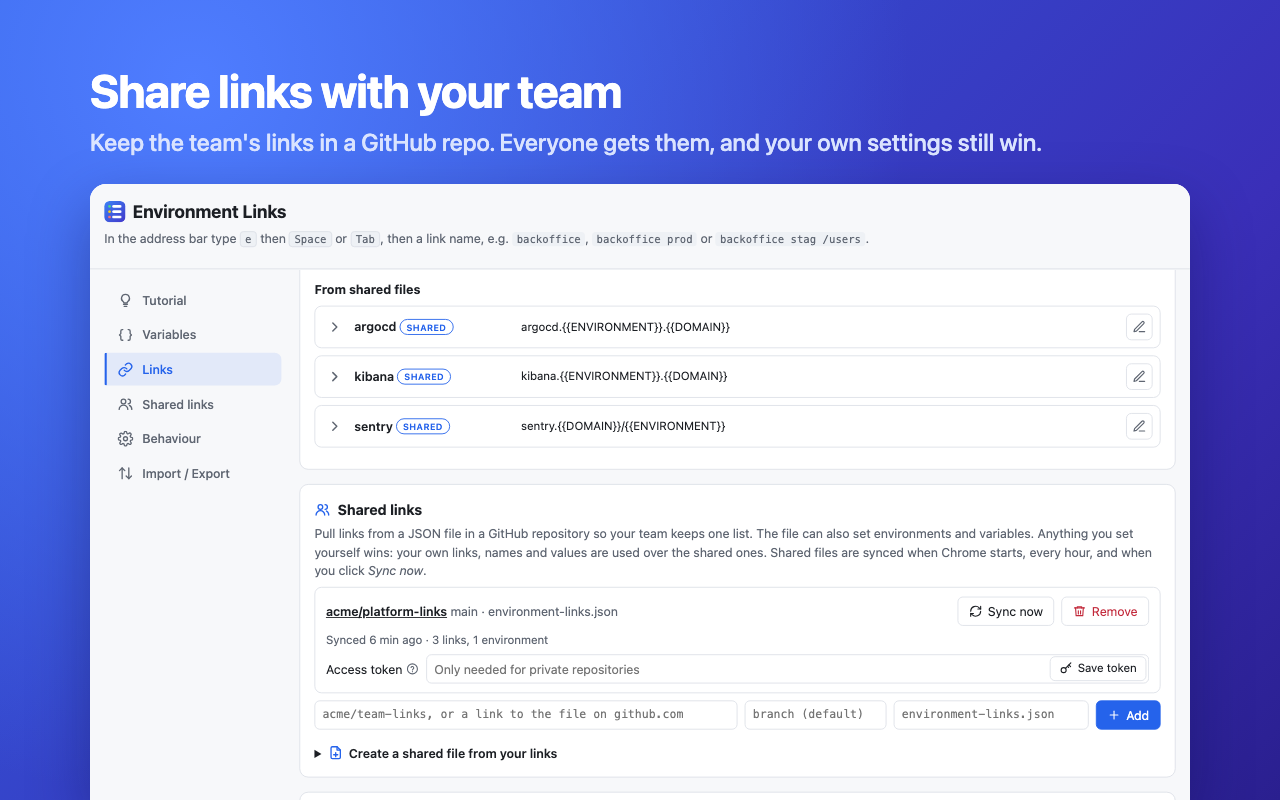
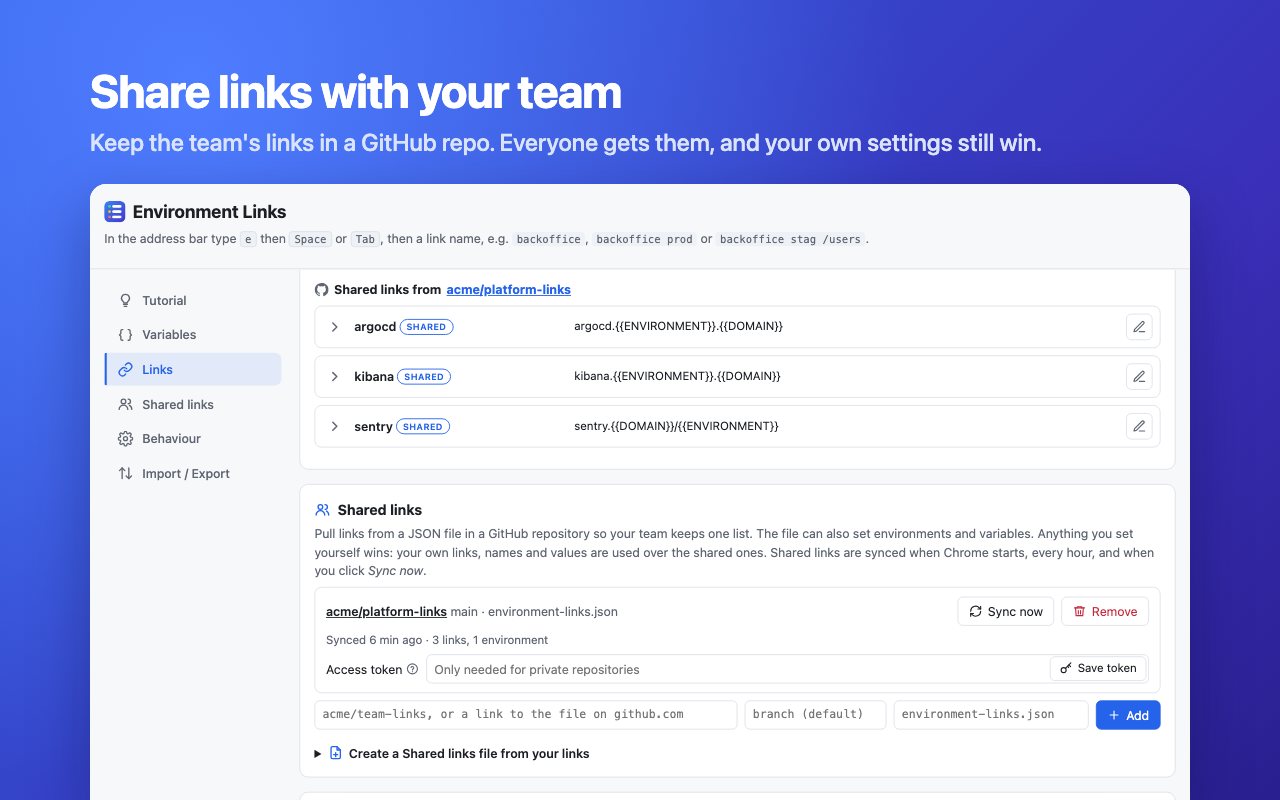
Release 1.3.1
- Shared links are grouped under a "Shared links from owner/repo" heading
  for each source, linking to the file on GitHub.
- "Shared links" wording throughout instead of "shared files".
- Links section explains how to use variables in templates; wider name
  column with a "Link Name (e.g. BackOffice)" placeholder.
- Spacing tweaks for link details and the shortcuts box.

diff --git a/src/options.js b/src/options.js
@@ -152,10 +152,10 @@ function renderVars() {
               grip("var", name, `variable ${name}`, "x"),
               el("input", {
                 class: "mono", value: name, "aria-label": "Variable name", readOnly: shared,
-                title: shared ? "Defined in a shared file, so it can't be renamed here" : "",
+                title: shared ? "Defined in Shared links, so it can't be renamed here" : "",
                 onchange: (e) => renameVariable(name, e.target.value),
               }),
-              shared ? sharedTag("a shared file") : null,
+              shared ? sharedTag("Shared links") : null,
               iconButton(
                 shared ? `Clear your values for ${name}` : `Remove ${name}`, "✕",
                 () => {
@@ -211,7 +211,7 @@ function renderVars() {
               value: own?.name ?? env.name, "aria-label": "Environment name",
               oninput: (e) => { ownEnvironment(env, true).name = e.target.value; changed(); },
             }),
-            shared ? sharedTag(env.source || "a shared file") : null
+            shared ? sharedTag(env.source || "Shared links") : null
           )
         ),
         ...effective.variableNames.map((name) =>
@@ -504,7 +504,7 @@ function renderLinks() {
         el("div", { class: "link-row" },
           toggleButton(link),
           el("input", {
-            value: link.key, placeholder: "name, e.g. backoffice", "aria-label": "Link name",
+            value: link.key, placeholder: "Link Name (e.g. BackOffice)", "aria-label": "Link name",
             oninput: (e) => { link.key = e.target.value.trim(); changed(); },
           }),
           el("input", {
@@ -562,13 +562,30 @@ $("#links").addEventListener("focusin", (e) => {
   if (box && e.target.closest(".link-row input") && openLink !== box.linkKey) openOnly(box.linkKey);
 });
 
+const GITHUB_MARK = `<svg viewBox="0 0 24 24" width="16" height="16" aria-hidden="true" fill="currentColor"><path d="M12 .5a11.5 11.5 0 0 0-3.64 22.41c.58.1.79-.25.79-.56v-2c-3.2.7-3.88-1.37-3.88-1.37-.53-1.33-1.28-1.69-1.28-1.69-1.05-.71.08-.7.08-.7 1.16.08 1.77 1.19 1.77 1.19 1.03 1.77 2.7 1.26 3.36.96.1-.75.4-1.26.73-1.55-2.56-.29-5.25-1.28-5.25-5.68 0-1.26.45-2.28 1.19-3.09-.12-.29-.52-1.46.11-3.04 0 0 .97-.31 3.17 1.18a11 11 0 0 1 5.77 0c2.2-1.49 3.17-1.18 3.17-1.18.63 1.58.23 2.75.11 3.04.74.81 1.19 1.83 1.19 3.09 0 4.41-2.7 5.38-5.26 5.67.41.36.78 1.06.78 2.14v3.17c0 .31.21.67.8.56A11.5 11.5 0 0 0 12 .5z"/></svg>`;
+
+/** "Shared links from owner/repo", with the repository linking to the file on GitHub. */
+function sourceHeading(source, repo) {
+  const mark = el("span", { class: "source-mark", "aria-hidden": "true" });
+  mark.innerHTML = GITHUB_MARK;
+  const name = source
+    ? el("a", { href: fileUrl(source), target: "_blank", rel: "noopener", title: `${source.path} on ${source.branch || "the default branch"}` }, repo)
+    : el("span", {}, repo);
+  return el("h3", { class: "source-heading" }, mark, "Shared links from ", name);
+}
+
 function renderSharedLinks() {
   const root = $("#shared-links");
   root.replaceChildren();
   if (!effective.sharedLinks.length) return;
-  root.append(el("h3", {}, "From shared files"));
 
+  // Shared links come out in source order; each source gets a heading naming the repository.
+  let lastSource = null;
   effective.sharedLinks.forEach((link, i) => {
+    if (link.source !== lastSource) {
+      lastSource = link.source;
+      root.append(sourceHeading(config.sources.find((src) => src.repo === link.source), link.source));
+    }
     const key = `shared:${link.source}:${link.key}`;
 
     root.append(
@@ -760,7 +777,7 @@ function renderSources() {
   const root = $("#sources");
   root.replaceChildren();
   if (!config.sources.length) {
-    root.append(el("p", { class: "empty" }, "No shared files yet."));
+    root.append(el("p", { class: "empty" }, "No Shared links added yet."));
     return;
   }
   config.sources.forEach((source, i) => {
@@ -818,7 +835,7 @@ $("#add-source").addEventListener("submit", async (e) => {
     return;
   }
   if (!(await granted)) {
-    setStatus("Allow access to api.github.com to sync shared files.", "err");
+    setStatus("Allow access to api.github.com to sync Shared links.", "err");
     return;
   }
   config.sources.push(source);
@@ -1195,7 +1212,7 @@ window.addEventListener("dragover", (e) => { if (hasFiles(e)) e.preventDefault()
 window.addEventListener("drop", (e) => { if (hasFiles(e)) e.preventDefault(); });
 
 $("#reset").addEventListener("click", () => {
-  if (!confirm("Remove your own environments, variables and links? Shared files are kept.")) return;
+  if (!confirm("Remove your own environments, variables and links? Shared links are kept.")) return;
   config = normalizeConfig({ ...structuredClone(DEFAULT_CONFIG), sources: config.sources });
   openLink = null;
   restructured();

diff --git a/src/options.html b/src/options.html
@@ -158,8 +158,12 @@
       <div class="section-head">
         <div>
           <h2><svg class="h-icon" viewBox="0 0 24 24" width="18" height="18" aria-hidden="true" fill="none" stroke="currentColor" stroke-width="2" stroke-linecap="round" stroke-linejoin="round"><path d="M10 13a5 5 0 0 0 7.5.5l3-3a5 5 0 0 0-7-7l-1.7 1.7"/><path d="M14 11a5 5 0 0 0-7.5-.5l-3 3a5 5 0 0 0 7 7l1.7-1.7"/></svg>Links</h2>
-          <p class="muted">The name is what you type after <kbd class="keyword">e</kbd>. Expand a link to preview it, or to override the URL for one environment
-            (e.g. production without the <code>{{ENVIRONMENT}}.</code> part).</p>
+          <p class="muted">In the URL template, put a variable's name in double braces, like <code>{{ENVIRONMENT}}</code> or
+            <code>{{DOMAIN}}</code>. Each environment fills in its own value from <a href="#vars-section">Variables</a>, so
+            <code>backoffice.{{ENVIRONMENT}}.{{DOMAIN}}</code> becomes <code>backoffice.dev.example.com</code> for DEV.
+            <code>https://</code> is added if you leave it out.</p>
+          <p class="muted">While you edit a link, its URL for every environment is shown below it. Type in an environment's box to use
+            a different URL there, e.g. production without the <code>{{ENVIRONMENT}}.</code> part.</p>
         </div>
         <div class="actions"><button id="add-link" type="button">+ Link</button></div>
       </div>
@@ -171,7 +175,7 @@
       <h2><svg class="h-icon" viewBox="0 0 24 24" width="18" height="18" aria-hidden="true" fill="none" stroke="currentColor" stroke-width="2" stroke-linecap="round" stroke-linejoin="round"><circle cx="9" cy="8" r="3.5"/><path d="M2.5 20a6.5 6.5 0 0 1 13 0"/><path d="M16 4.5a3.5 3.5 0 0 1 0 7"/><path d="M18 14a6.5 6.5 0 0 1 3.5 6"/></svg>Shared links</h2>
       <p class="muted">Pull links from a JSON file in a GitHub repository so your team keeps one list. The file can also set
         environments and variables. Anything you set yourself wins: your own links, names and values are used over the shared ones.
-        Shared files are synced when Chrome starts, every hour, and when you click <em>Sync now</em>.</p>
+        Shared links are synced when Chrome starts, every hour, and when you click <em>Sync now</em>.</p>
       <div id="sources"></div>
       <form id="add-source" class="add-source">
         <input id="source-location" class="mono" required
@@ -182,13 +186,13 @@
       </form>
 
       <details class="share-builder">
-        <summary><svg class="h-icon" viewBox="0 0 24 24" width="18" height="18" aria-hidden="true" fill="none" stroke="currentColor" stroke-width="2" stroke-linecap="round" stroke-linejoin="round"><path d="M14 3H7a2 2 0 0 0-2 2v14a2 2 0 0 0 2 2h10a2 2 0 0 0 2-2V8z"/><path d="M14 3v5h5"/><path d="M12 12v6"/><path d="M9 15h6"/></svg>Create a shared file from your links</summary>
+        <summary><svg class="h-icon" viewBox="0 0 24 24" width="18" height="18" aria-hidden="true" fill="none" stroke="currentColor" stroke-width="2" stroke-linecap="round" stroke-linejoin="round"><path d="M14 3H7a2 2 0 0 0-2 2v14a2 2 0 0 0 2 2h10a2 2 0 0 0 2-2V8z"/><path d="M14 3v5h5"/><path d="M12 12v6"/><path d="M9 15h6"/></svg>Create a Shared links file from your links</summary>
         <p class="muted">Pick the links to share, then commit the JSON below as <code>environment-links.json</code> in a GitHub
           repository your team can read. Anyone who adds that repository above gets these links.</p>
         <div id="share-links" class="share-links"></div>
         <label class="inline"><input id="share-values" type="checkbox" checked>
           Include the environments and variable values these links use</label>
-        <textarea id="share-json" rows="10" readonly spellcheck="false" aria-label="Shared file JSON"></textarea>
+        <textarea id="share-json" rows="10" readonly spellcheck="false" aria-label="Shared links JSON"></textarea>
         <div class="actions"><button id="share-copy" type="button">Copy</button></div>
       </details>
     </section>

diff --git a/src/options.css b/src/options.css
@@ -135,7 +135,7 @@ table.grid { border-collapse: collapse; width: 100%; }
 .grid .row-actions { width: 1%; white-space: nowrap; }
 
 .link { border: 1px solid var(--border); border-radius: 8px; margin-bottom: 8px; }
-.link-row { display: grid; grid-template-columns: 28px minmax(100px, 180px) 1fr auto; gap: 8px; align-items: center; padding: 8px; }
+.link-row { display: grid; grid-template-columns: 28px minmax(140px, 240px) 1fr auto; gap: 8px; align-items: center; padding: 8px; }
 .link-row .toggle {
   display: grid; place-items: center; width: 28px; height: 28px; padding: 0;
   border: 0; border-radius: 6px; background: none; color: var(--muted);
@@ -429,7 +429,7 @@ button:has(> .btn-icon) { display: inline-flex; align-items: center; gap: 6px; }
 /* Behaviour: each shortcut on a row, with its name, its keys and an action lined up in columns */
 .shortcuts {
   display: grid; grid-template-columns: max-content max-content 1fr; align-items: center;
-  gap: 10px 16px; margin: 4px 0 14px; padding: 12px 14px; border: 1px solid var(--border); border-radius: 10px;
+  gap: 10px 16px; margin: 10px 0 14px; padding: 12px 14px; border: 1px solid var(--border); border-radius: 10px;
 }
 .shortcut { display: contents; }
 .shortcut-name { font-weight: 600; }
@@ -446,3 +446,9 @@ button:has(> .btn-icon) { display: inline-flex; align-items: center; gap: 6px; }
 .token-label { display: inline-flex; align-items: center; gap: 4px; }
 .help-link { display: inline-grid; place-items: center; color: var(--muted); border-radius: 50%; }
 .help-link:hover, .help-link:focus-visible { color: var(--accent); }
+.section-head p a { color: var(--accent); }
+
+/* "Shared links from owner/repo" above each source's links */
+.source-heading { display: flex; align-items: center; gap: 6px; flex-wrap: wrap; }
+.source-heading .source-mark { display: grid; color: var(--muted); }
+.source-heading a { color: var(--accent); }

diff --git a/README.md b/README.md
@@ -24,7 +24,7 @@ e backoffice
 - **One template per link:** variables per environment, a Default row for shared values, and per-environment overrides.
 - **Team sharing:** pull a shared set of links, environments and variables from a JSON file in a GitHub repository. Your own settings still win.
 - **Portable:** settings sync through your Chrome profile, and you can export and import them as a JSON file.
-- **Private:** no analytics and no servers. The only network requests go to GitHub, for shared files you add.
+- **Private:** no analytics and no servers. The only network requests go to GitHub, for Shared links you add.
 
 ## Install
 
@@ -98,7 +98,7 @@ The file uses the same format as the export. Every field is optional, but it nee
 }
 ```
 
-How shared files combine with your own settings:
+How Shared links combine with your own settings:
 
 - Your own links come first. A shared link with the same name as one of yours is ignored and marked **Overridden**. To change a shared link, click its pencil (**Override**) button: it copies the link into your own links, where your copy is used instead. To go back to the shared one, click the restore (↺) button next to **Overridden**, or delete your copy.
 - Environments match on `id`. Shared environments you don't have are added to the end, marked "shared".
